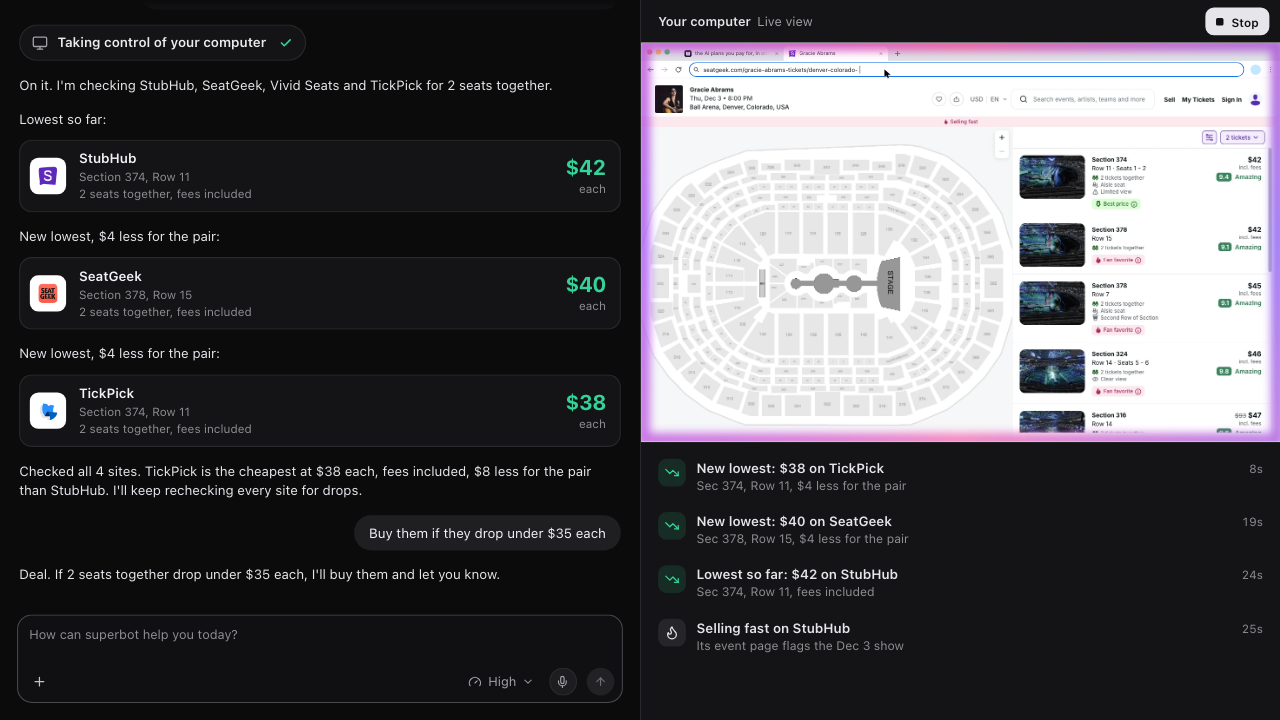
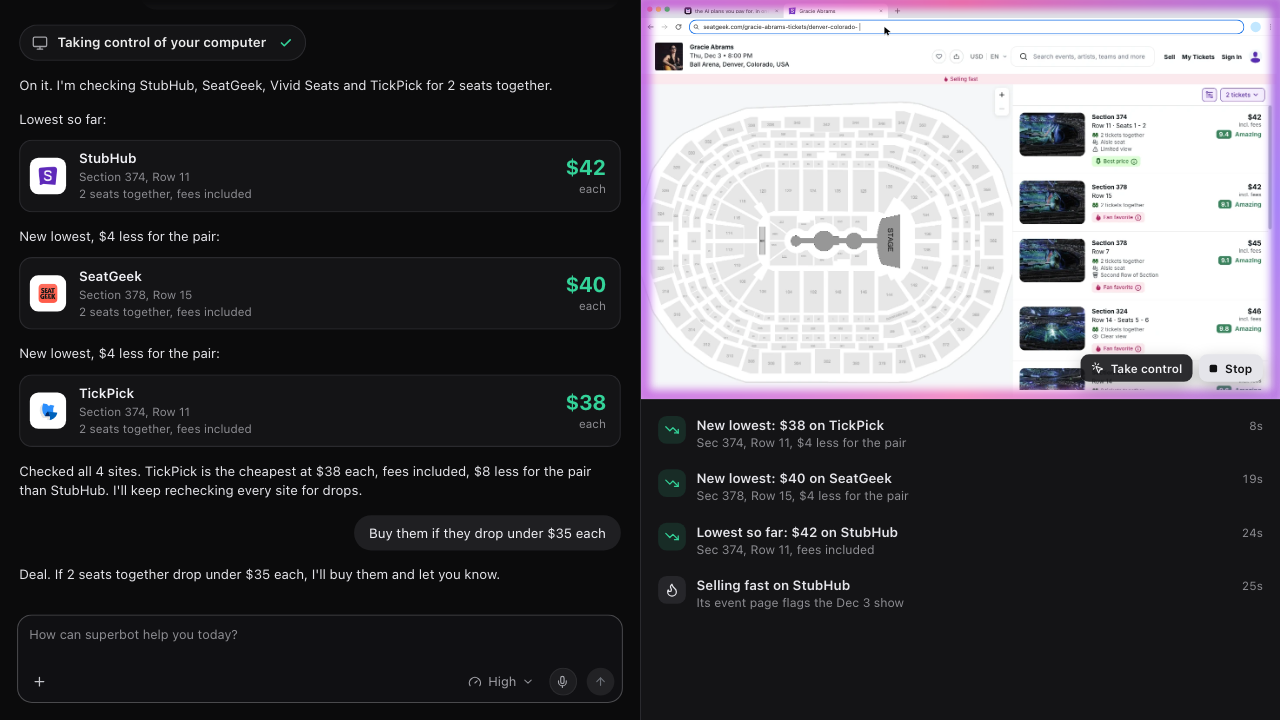
Concert tickets news (d35be136): Take control and Stop inside the live view, no view header, no empty news text, the side panel slides in on the first send

diff --git a/animations/superbot-concert-tickets-news-d35be136/style.d35be136.css b/animations/superbot-concert-tickets-news-d35be136/style.d35be136.css
@@ -73,17 +73,20 @@ svg { flex: none; }
 .rc-send svg { width: 12px; height: 12px; stroke-width: 2.2; }
 .rc-send.is-on { background: #e8e8e8; color: #161618 !important; }
 
-/* ---------- the side panel, docked to the right edge, full height: the live view, then the news ---------- */
+/* ---------- the side panel, docked to the right edge, full height: the live view, then the news. It is hidden until
+   the user's first message is sent, then slides in from the right as the chat glides from centre to left (the script
+   sets both transforms from t) ---------- */
 .side { display: flex; flex-direction: column; min-width: 0; min-height: 0; overflow: hidden; border-left: 1px solid var(--line); background: var(--panel); }
 .cc { flex: none; display: flex; flex-direction: column; }
-.bk-head { flex: none; display: flex; align-items: center; gap: 8px; height: 40px; padding: 0 10px 0 16px; box-shadow: 0 1px 0 var(--line); }
-.bk-title { min-width: 0; margin-right: auto; overflow: hidden; text-overflow: ellipsis; white-space: nowrap; font: 600 12px/16px var(--ui); color: var(--ink); }
-.bk-title small { margin-left: 6px; font: 400 12px/16px var(--ui); color: #a1a1a6; }
-.bk-btn { display: inline-flex; align-items: center; gap: 6px; height: 26px; padding: 0 10px; border-radius: 8px; white-space: nowrap; font: 500 11px/1 var(--ui); }
-.bk-stop { gap: 7px; background: var(--ink); font-weight: 600; color: #111113; }
-.bk-stop i { width: 7px; height: 7px; border-radius: 1.5px; background: #111113; }
 /* the screen share: the desktop's shape at the panel's width (height set by the script) */
 .cc-view { position: relative; flex: none; overflow: hidden; background: #fff; }
+/* the user's controls while superbot drives, inside the view's bottom right corner, clear of the vignette's glow */
+.cc-ctl { position: absolute; right: 16px; bottom: 16px; z-index: 5; display: flex; gap: 6px; opacity: 0; }
+.cc-btn { display: inline-flex; align-items: center; gap: 6px; height: 26px; padding: 0 10px; border-radius: 8px; white-space: nowrap; font: 600 11px/1 var(--ui); box-shadow: 0 6px 16px rgba(0,0,0,.28); }
+.cc-btn svg { display: block; width: 12px; height: 12px; }
+.cc-take { background: rgba(22,22,26,.9); color: #f2f2f5; box-shadow: 0 0 0 1px rgba(255,255,255,.12), 0 6px 16px rgba(0,0,0,.28); }
+.cc-stop { gap: 7px; background: var(--ink); color: #111113; }
+.cc-stop i { width: 7px; height: 7px; border-radius: 1.5px; background: #111113; }
 
 .nw { flex: 1; min-height: 0; display: flex; flex-direction: column; border-top: 1px solid var(--line); }
 /* the list fades out at its foot, where older items slide off */
@@ -96,7 +99,6 @@ svg { flex: none; }
 .nw-tx b { display: block; font: 600 12.5px/17px var(--ui); color: var(--ink); }
 .nw-tx small { display: block; font: 11.5px/15px var(--ui); color: var(--muted); }
 .nw-time { flex: none; font: 11px/17px var(--ui); color: var(--muted); font-variant-numeric: tabular-nums; }
-.nw-empty { position: absolute; left: 16px; top: 9px; margin: 0; font: 12px/18px var(--ui); color: var(--muted); }
 
 /* ---------- Chrome on the shared desktop, in the desktop's own px (computer.ba3976b6.css) ---------- */
 .cc-desk { position: absolute; left: 0; top: 0; width: 1470px; height: 919px; overflow: hidden; transform-origin: 0 0; background: #fff; }

diff --git a/animations/superbot-concert-tickets-news-d35be136/screen.d35be136.js b/animations/superbot-concert-tickets-news-d35be136/screen.d35be136.js
@@ -1,8 +1,9 @@
 // The live view: the user's 1470x919 desktop with Chrome full screen on it, scaled whole into the side panel (the
 // computer-control-v3-soft variant's screen share, computer.ba3976b6.js). Chrome opens on a New Tab page; once superbot
 // has control it visits each ticket site in that tab, typing the event's address, picking 2 tickets or checking the
-// sort, and resting the screen's own cursor on the cheapest listing. Over it only the takeover's vignette.
-import { seg, lerp, outCubic, inOutCubic, esc } from './lib.d35be136.js';
+// sort, and resting the screen's own cursor on the cheapest listing. Over it the takeover's vignette and, in the view's
+// bottom right corner, the controls the user has while superbot drives: Take control and Stop.
+import { seg, lerp, outCubic, inOutCubic, esc, glyph } from './lib.d35be136.js';
 import { SITES, NEW_TAB, VISITS, TAKE } from './timeline.d35be136.js';
 
 const DESK = { w: 1470, h: 919 };
@@ -84,11 +85,12 @@ export function buildScreen(view) {
       </div>
       <svg class="cc-cursor" viewBox="0 0 24 24" aria-hidden="true"><path d="${ARROW}"/></svg>
     </div>
-    <i class="cc-edge"><i class="cc-soft"><i class="cc-band"></i></i></i>`;
+    <i class="cc-edge"><i class="cc-soft"><i class="cc-band"></i></i></i>
+    <span class="cc-ctl"><span class="cc-btn cc-take">${glyph('pointer')}Take control</span><span class="cc-btn cc-stop"><i></i>Stop</span></span>`;
   const $ = (s) => view.querySelector(s);
   return {
     view, desk: $('.cc-desk'), cursor: $('.cc-cursor'), favWrap: $('.cc-site-fav'), fav: $('.cc-site-fav img'), tt: $('.cc-site-tt'),
-    omni: $('.cc-omni'), url: $('.cc-url'), caret: $('.cc-caret'), ph: $('.cc-ph'), edge: $('.cc-edge'), soft: $('.cc-soft'),
+    omni: $('.cc-omni'), url: $('.cc-url'), caret: $('.cc-caret'), ph: $('.cc-ph'), edge: $('.cc-edge'), soft: $('.cc-soft'), ctl: $('.cc-ctl'),
     pages: Object.fromEntries([...view.querySelectorAll('.cc-page')].map((img) => [img.dataset.page, img])),
     favs: SITES.map((s) => Object.assign(new Image(), { src: `img/${s.fav}` })), shown: {},
   };
@@ -102,9 +104,10 @@ export function fitScreen(v) {
 }
 
 export function paintScreen(v, t) {
-  // the takeover: the vignette fades in as its gradient turns and gently breathes
+  // the takeover: the vignette fades in as its gradient turns and gently breathes; the controls come with it
   const g = outCubic(seg(t, TAKE, TAKE + 0.55));
   v.edge.style.opacity = g.toFixed(3);
+  v.ctl.style.opacity = g.toFixed(3);
   v.edge.style.setProperty('--cc-a', `${((t * 60) % 360).toFixed(1)}deg`);
   v.soft.style.opacity = (0.9 + 0.08 * Math.sin(t * 2.6)).toFixed(3);
 

diff --git a/animations/superbot-concert-tickets-news-d35be136/main.d35be136.js b/animations/superbot-concert-tickets-news-d35be136/main.d35be136.js
@@ -1,15 +1,20 @@
 // The spot's clock: builds the chat, the live view and the news under it, waits for fonts and images so every
 // measured size is final, then paints one frame per animation frame from t, looping every L seconds with a short dip
 // to black where it comes round. ?t=12.5 freezes a frame (thumbnails, captures); reduced motion holds one still frame.
-import { seg } from './lib.d35be136.js';
-import { L } from './timeline.d35be136.js';
+import { seg, outCubic, REDUCED } from './lib.d35be136.js';
+import { L, TYPING } from './timeline.d35be136.js';
 import { buildScreen, fitScreen, paintScreen } from './screen.d35be136.js';
 import { buildChat, measureChat, paintChat } from './chat.d35be136.js';
 import { buildSide, measureSide, paintSide } from './side.d35be136.js';
 
 const STILL_AT = 33.0; // the frame reduced motion holds: the whole chat settled, four news items
+const OPEN = TYPING[0].send; // the side panel opens as the user's first message is sent
+const OPEN_LEN = 0.55;
+const CENTRE = 300; // the 600px chat column's offset to sit centred in the 1200px app before the panel opens
 const stage = document.getElementById('stage');
 const dip = document.getElementById('dip');
+const chatPane = document.querySelector('.ch');
+const sidePane = document.querySelector('.side');
 const screen = buildScreen(document.querySelector('.cc-view'));
 const chat = buildChat(document.querySelector('.ch'));
 const side = buildSide(document.querySelector('.nw'));
@@ -19,9 +24,19 @@ function fit() {
   stage.style.transform = `translate(-50%, -50%) scale(${k.toFixed(4)})`;
 }
 
+// before the first send the chat sits centred and the panel is away; then the panel slides in from the right edge as
+// the chat glides left. With reduced motion it simply appears
+function openPanel(t) {
+  const k = REDUCED ? (t >= OPEN ? 1 : 0) : outCubic(seg(t, OPEN, OPEN + OPEN_LEN));
+  chatPane.style.transform = k >= 1 ? 'none' : `translateX(${((1 - k) * CENTRE).toFixed(2)}px)`;
+  sidePane.style.transform = k >= 1 ? 'none' : `translateX(${((1 - k) * 100).toFixed(2)}%)`;
+  sidePane.style.visibility = k > 0 ? 'visible' : 'hidden';
+}
+
 function frame(t) {
   const lt = ((t % L) + L) % L;
   dip.style.opacity = Math.max(seg(lt, L - 0.45, L), 1 - seg(lt, 0, 0.35)).toFixed(3);
+  openPanel(lt);
   paintScreen(screen, lt);
   paintChat(chat, lt);
   paintSide(side, lt);

diff --git a/animations/superbot-concert-tickets-news-d35be136/lib.d35be136.js b/animations/superbot-concert-tickets-news-d35be136/lib.d35be136.js
@@ -23,5 +23,6 @@ const G = {
   down: '<path d="M16 17h6v-6"/><path d="m22 17l-8.5-8.5l-5 5L2 7"/>',
   flame: '<path d="M12 3q1 4 4 6.5t3 5.5a1 1 0 0 1-14 0a5 5 0 0 1 1-3a1 1 0 0 0 5 0c0-2-1.5-3-1.5-5q0-2 2.5-4"/>',
   gauge: '<path d="m12 14l4-4M3.34 19a10 10 0 1 1 17.32 0"/>',
+  pointer: '<path d="M14 4.1L12 6M5.1 8l-2.9-.8M6 12l-1.9 2M7.2 2.2L8 5.1m1.037 4.59a.498.498 0 0 1 .653-.653l11 4.5a.5.5 0 0 1-.074.949l-4.349 1.041a1 1 0 0 0-.74.739l-1.04 4.35a.5.5 0 0 1-.95.074z"/>',
 };
 export const glyph = (name) => `<svg viewBox="0 0 24 24" fill="none" stroke="currentColor" stroke-width="2" stroke-linecap="round" stroke-linejoin="round" aria-hidden="true">${G[name]}</svg>`;

diff --git a/animations/superbot-concert-tickets-news-d35be136/index.html b/animations/superbot-concert-tickets-news-d35be136/index.html
@@ -27,14 +27,10 @@
     </section>
     <aside class="side" aria-label="Side panel">
       <section class="cc" aria-label="Your computer, live view">
-        <div class="bk-head">
-          <b class="bk-title">Your computer<small>Live view</small></b>
-          <span class="bk-btn bk-stop"><i></i>Stop</span>
-        </div>
         <div class="cc-view"></div>
       </section>
       <section class="nw" aria-label="News">
-        <div class="nw-list"><p class="nw-empty">New best prices and alerts show up here.</p></div>
+        <div class="nw-list"></div>
       </section>
     </aside>
   </div>

diff --git a/animations/superbot-concert-tickets-news-d35be136/side.d35be136.js b/animations/superbot-concert-tickets-news-d35be136/side.d35be136.js
@@ -13,7 +13,7 @@ export function buildSide(news) {
     list.appendChild(node);
     return { n, node, time: node.querySelector('.nw-time'), h: 0, shown: '' };
   });
-  return { rows, empty: news.querySelector('.nw-empty') };
+  return { rows };
 }
 
 export function measureSide(s) {
@@ -33,5 +33,4 @@ export function paintSide(s, t) {
     const a = p > 0 ? age(t - r.n.at) : '';
     if (r.shown !== a) { r.time.textContent = a; r.shown = a; }
   }
-  s.empty.style.opacity = (1 - outCubic(seg(t, NEWS[0].at, NEWS[0].at + ENTER))).toFixed(3);
 }
